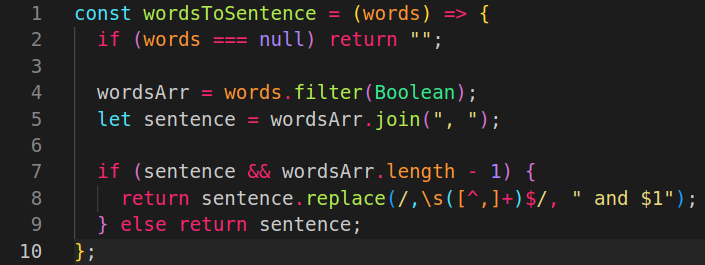
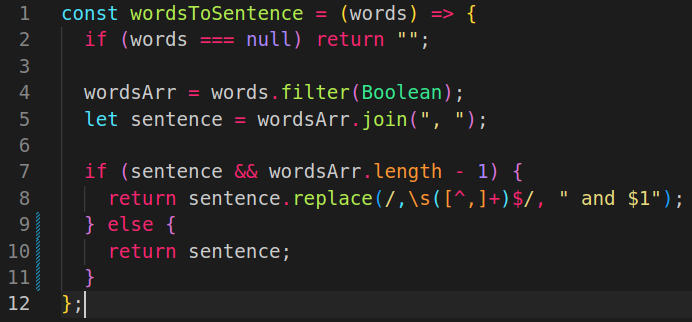
fix: readability issues

diff --git a/edabit/X9-caesar-cypher/caesar-cypher.js b/edabit/X9-caesar-cypher/caesar-cypher.js
@@ -5,13 +5,18 @@ const caesarCipher = (s, k) => {
     .join("");
 };
 
-const codeSet = (code) => (code < 97 ? 65 : 97);
+const A = 65;
+const Z = 90;
+const a = 97;
+const z = 122;
+
+const codeSet = (code) => (code < a ? A : a);
 const mod = (n, m) => ((n % m) + m) % m;
 
 const shiftChar = (char, k) => {
   const code = char.charCodeAt();
 
-  if ((code >= 65 && code <= 90) || (code >= 97 && code <= 122)) {
+  if ((code >= A && code <= Z) || (code >= a && code <= z)) {
     return String.fromCharCode(
       mod(code + k - codeSet(code), 26) + codeSet(code)
     );

diff --git a/edabit/1H-temperature-converter/temperature-converter.js b/edabit/1H-temperature-converter/temperature-converter.js
@@ -3,10 +3,12 @@ function convert(deg) {
 
   if (deg.endsWith("°F")) {
     let c = (num[0] - 32) * (5 / 9);
-    return Math.round((c * 10) / 10) + "°C";
+    return Math.round(c) + "°C";
+
   } else if (deg.endsWith("°C")) {
     let f = num[0] * (9 / 5) + 32;
-    return Math.round((f * 10) / 10) + "°F";
+    return Math.round(f) + "°F";
+    
   } else {
     return "Error";
   }

diff --git a/edabit/6VH-string-incrementer/string-incrementer.js b/edabit/6VH-string-incrementer/string-incrementer.js
@@ -6,7 +6,9 @@ const incrementString = (str) => {
   if (/(\d+)/.test(str)) {
     num = parseInt(num) + 1;
     return strWord + num.toString().padStart(strArr[1].length, 0);
-  } else return (str += "1");
+  } else {
+    return (str += "1");
+  }
 };
 
 // https://edabit.com/challenge/4cKsMQnxaA7APdeg4

diff --git a/edabit/4H-words-to-sentence/words-to-sentence.js b/edabit/4H-words-to-sentence/words-to-sentence.js
@@ -6,7 +6,9 @@ const wordsToSentence = (words) => {
 
   if (sentence && wordsArr.length - 1) {
     return sentence.replace(/,\s([^,]+)$/, " and $1");
-  } else return sentence;
+  } else {
+    return sentence;
+  }
 };
 
 // https://edabit.com/challenge/ddXhrbFi4ozxxgYdG

diff --git a/edabit/7VH-case-and-index-inverter/case-and-index-inverter.js b/edabit/7VH-case-and-index-inverter/case-and-index-inverter.js
@@ -9,7 +9,7 @@ const invert = (s) => {
       return char.toUpperCase();
     }
   });
-  return (strReverse = caseReverse.join(""));
+  return caseReverse.join("");
 };
 
 // https://edabit.com/challenge/TYcMysG6yy4RKEQPP
